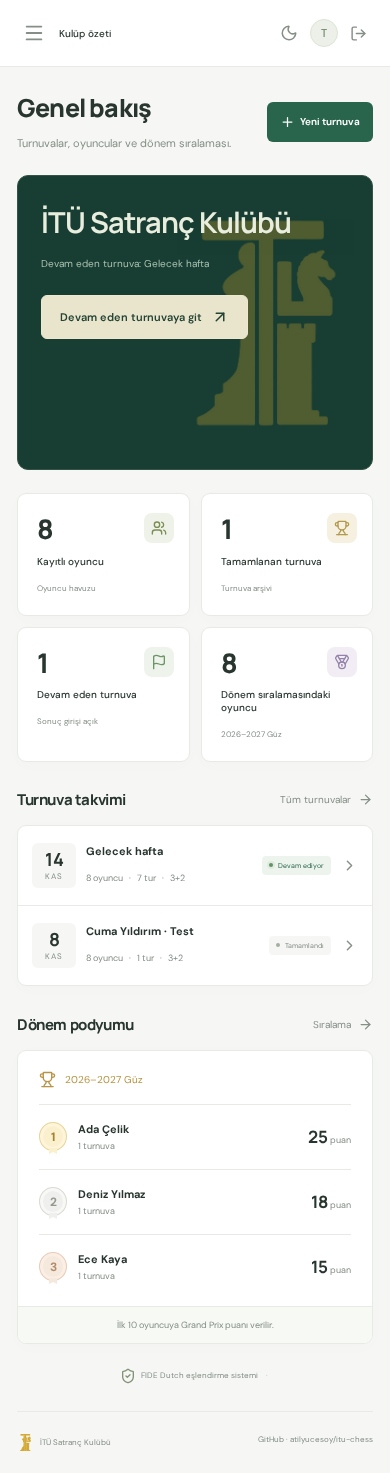
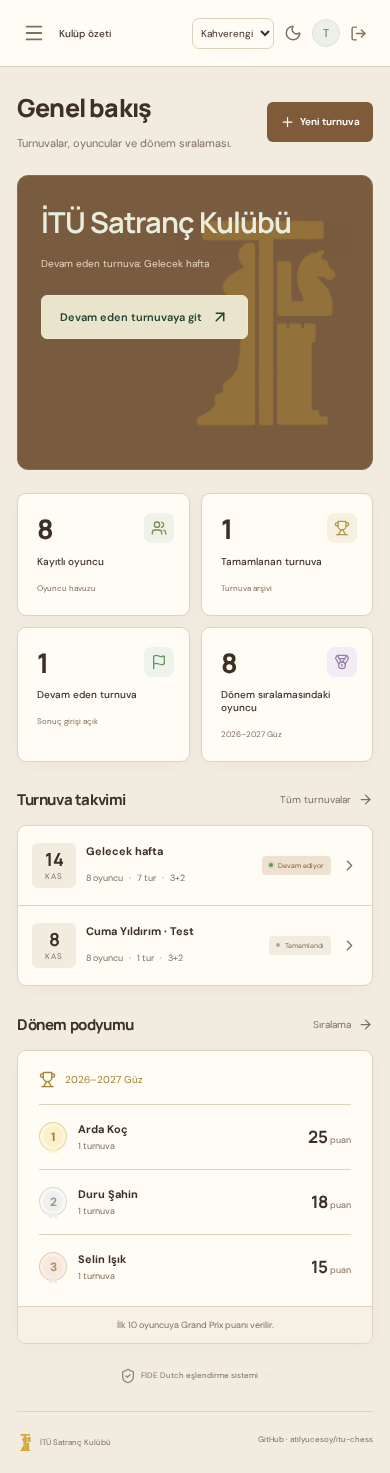
docs: explain semester rollover, themes and projection display

diff --git a/README.md b/README.md
@@ -8,7 +8,7 @@ A tournament-management web application built for Istanbul Technical University'
 
 ![Club overview](docs/screenshots/overview.png)
 
-Screenshots use fictional automated-test data, not real club records. [Standings](docs/screenshots/standings.png) · [Mobile layout](docs/screenshots/mobile-overview.png) · [Architecture and trade-offs](docs/architecture.md)
+Screenshots use fictional automated-test data, not real club records. [1080p projection / 40 players](docs/screenshots/projection.png) · [Standings](docs/screenshots/standings.png) · [Mobile layout](docs/screenshots/mobile-overview.png) · [Architecture and trade-offs](docs/architecture.md)
 
 ## Run locally
 
@@ -31,7 +31,7 @@ Local database: `data/club.sqlite`. Do not delete it or store it on an ephemeral
 
 `npm run dev` enables developer mode on the local server. Sign in as the owner, open **Kulüp ayarları → Developer mode → Deneme ortamını aç**. A persistent yellow banner identifies the test workspace. Add names such as `abc`, create a tournament, enter results and finalize normally.
 
-- The test workspace starts empty and copies **only the rating policy**, never actual players, tournaments or accounts.
+- The test workspace starts empty and copies **only rating policy and semester configuration**, never actual players, tournaments or accounts.
 - All test state lives in an isolated **in-memory store**, not the club's SQLite/Supabase database. It does not enter real rating history, points, audit records or backups.
 - **Denemeyi sıfırla** clears all test players, events, rating changes, corrections and audit entries. **Kulüp kayıtlarına dön** clears and discards the test workspace before returning to actual club data.
 - Test state is also discarded on logout, server restart or after four hours. An expired workspace never silently accepts mutations against actual club records. Explicit workspace checks and monotonic revisions reject stale requests.
@@ -44,13 +44,27 @@ Tabs in the same browser share the workspace cookie. Use a separate browser prof
 ## Weekly workflow
 
 1. Sign in, add people in **Oyuncular**, with optional FIDE standard Elo or UKD.
-2. Create an event. Defaults: **7 rounds**, **3+2**. Choose its semester and whether it contributes championship points and/or İTÜ Elo. Chess960 defaults both switches off, independently adjustable.
+2. Create a standard chess event. Defaults: **7 rounds**, **3+2**, and the club's active semester. Choose a registered semester and whether the event contributes championship points and/or İTÜ Elo. There is no variant/mode selection.
 3. Select existing players, or copy the most recent tournament's participant list. **Save the list** before generating the first round.
 4. Generate a round; enter wins, draws or forfeits. All results must be complete before pairing the next round.
 5. Between rounds, mark withdrawals/returns from **Oyuncular**. Withdrawn players receive explicit zero-point absences, not rating losses. Late registration after the first round is intentionally not supported in v0.1.
 6. After the planned final round, resolve any complete tie with a **recorded random lot**, then finalize. Finalization awards points and updates ratings once. It cannot be run twice.
 
 The total rounds can be changed **before starting**, not silently changed mid-event. First-round initial colour is randomly drawn once and stored. If the engine cannot create valid pairings, it reports failure; it never falls back to an improvised pairing algorithm. For very small fields, choose a feasible number of Swiss rounds before starting.
+
+### Projecting pairings
+
+From the event page choose **Tam ekran eşlendirmeler**, then **Tam ekran** to use the browser's native full-screen mode (or F11 if the browser refuses it). The projection route `#projection/<event-id>` is read-only and accessible without organizer login for actual club events. Navigation and result-entry controls are hidden.
+
+Names, both ratings, table numbers and piece colours are enlarged. A normal 40-player field fits as 20 boards in two columns on a 1920×1080 screen. Smaller screens and unusually long names use pagination instead of silently clipping players. Use the next/previous board controls to see every table. The default **Son tur (otomatik)** follows new pairings through the existing 20-second refresh; selecting a specific older round keeps that round visible. A manual refresh control is also available. Sandbox projections are clearly labeled and remain confined to the same browser session.
+
+### Appearance and semesters
+
+- Choose **Kahverengi / Yeşil** in the header or **Kulüp ayarları → Görünüm**. The light cream/brown palette is the default; the original green palette remains available. The light/dark toggle is independent. Both preferences are stored only in the current browser.
+- The owner manages **Kulüp ayarları → Dönemler**. Create a period, optionally activate it immediately, or select an existing period and use **Aktif dönemi kaydet**.
+- The header badge always shows the **active semester**. New events default to it. The semester standings page can independently display an older semester without changing the club's active one.
+- Semester rollover is deliberate, not a calendar-triggered reset. Old events and semester points are preserved, and İTÜ Elo carries forward. Existing event labels are imported unchanged into the registry when upgrading; the latest legacy event's period is the initial active choice. A new empty installation receives a one-time date-based suggestion, which the owner can change.
+- Existing backups remain restorable. Migration adds semester metadata only; it does not rewrite games, ratings, account data or historical event labels. New events only use registered semester names, avoiding spelling-based duplicate leaderboards.
 
 ### Ratings and seeding
 
@@ -77,7 +91,7 @@ Policy changes affect newly started events. **Geçmişi yeniden hesapla** explic
 - Win 1, draw ½, loss 0. Pairing-allocated bye 1, absent 0.
 - Tie-break order: **score → Buchholz Cut-1 → Buchholz → Sonneborn-Berger → recorded lot**. Implements the March 2026 FIDE C.07 unplayed-round adjustments for the supported result types. Live tie-breaks are provisional.
 - F1 schedule: **25–18–15–12–10–8–6–4–2–1**. Only completed events with `Dönem puanlarına dahil` count.
-- Semester standings are separate; İTÜ Elo continues across semesters. Semester labels are manually entered (reuse the same spelling).
+- Semester standings are separate; İTÜ Elo continues across semesters. Events select a period from the central registry.
 - Season ties use countback: number of firsts, then seconds, etc. If still equal, the season table shares the rank (`=`); alphabetical ordering is display-only.
 - Medal podiums, profiles, rating graphs, CSV exports, organizer TRF export and public shareable event links.
 
@@ -123,7 +137,7 @@ npx playwright install chromium
 npm run test:e2e        # isolated temporary database, never real club data
 ```
 
-Tests include full seven-round even/odd tournaments, no repeated played opponents, colours, byes, forfeits, withdrawal/return, seeding priority, first-rated and unrated initialization, policy replay, finalization/reopening, tie resolution, semester exclusions, private data, permissions and edit conflicts. Developer-mode tests cover owner-only access, production gating, memory disposal, reset races, expired-session handling and unchanged real club data. GitHub Actions runs the unit/integration tests and browser tests on pushes to `main` and pull requests.
+Tests include full seven-round even/odd tournaments, no repeated played opponents, colours, byes, forfeits, withdrawal/return, seeding priority, first-rated and unrated initialization, policy replay, finalization/reopening, tie resolution, semester exclusions, private data, permissions and edit conflicts. Developer-mode tests cover owner-only access, production gating, memory disposal, reset races, expired-session handling and unchanged real club data. Further tests cover safe semester migration/rollover, old backup compatibility, independent palette/dark-mode persistence and a 40-player projection at 1080p with live round updates, native fullscreen and smaller-screen pagination. GitHub Actions runs the unit/integration tests and browser tests on pushes to `main` and pull requests.
 
 ## Pairing rules and licensing
 
@@ -133,4 +147,4 @@ bbpPairings is downloaded from the pinned v6.0.0 release with SHA-256 verificati
 - [FIDE tie-breaks, March 2026](https://handbook.fide.com/chapter/TieBreakRegulations032026)
 - [bbpPairings v6.0.0](https://github.com/BieremaBoyzProgramming/bbpPairings/releases/tag/v6.0.0)
 
-Interface inspiration: restrained Lichess-style usability, with original club styling. No Lichess branding or assets. Google Fonts are optional; local system fonts remain usable when unavailable. `src/style.css` contains the theme and responsive layouts.
+Interface inspiration: restrained Lichess-style usability, with original club styling. No Lichess branding or assets. Google Fonts are optional; local system fonts remain usable when unavailable. `src/style.css` contains the original green layout; `src/enhancements.css` adds reversible palettes, larger pairings and the projection layout.

diff --git a/docs/architecture.md b/docs/architecture.md
@@ -47,7 +47,15 @@ Tournament ranking and season points are different computations:
 1. A tournament ranks participants by score, Buchholz Cut-1, Buchholz, Sonneborn-Berger and a recorded random lot for any remaining complete ties.
 2. Semester standings sum the F1-style points from completed, included events. Ties use finishing-position countback; completely identical records share a season rank.
 
-The supported bye, forfeit and withdrawal cases have explicit tie-break adjustments rather than treating every unplayed round as an ordinary game. Live tie-break values are provisional. Tournaments independently opt into club rating calculations and semester points, which also supports unrated Chess960 club nights.
+The supported bye, forfeit and withdrawal cases have explicit tie-break adjustments rather than treating every unplayed round as an ordinary game. Live tie-break values are provisional. Standard tournaments independently opt into club rating calculations and semester points, so casual events can be excluded without introducing a variant selector.
+
+Semester labels are centrally registered, with an explicit owner-controlled active period. The header and new-event defaults use that active period; historical standings use an independent viewing selection. Rollover does not reassign old events, reset club ratings or alter past points. A one-time, idempotent migration preserves all legacy labels and records and adds only the missing registry metadata. Backup restoration uses the same normalization.
+
+## Presentation and projection
+
+The browser stores palette (brown/green) separately from light/dark mode. These preferences are local presentation state, not club-wide settings.
+
+A separate read-only hash route renders projected pairings without navigation or editing controls. It displays the same frozen entry ratings and the same round data as the tournament desk. Responsive capacity and pagination avoid hiding later boards when screen height or long names reduce available room. A standard 40-player field is browser-tested at 1920×1080 with all 20 boards visible. Native fullscreen is optional; the layout also fills the page without it. The default round selector follows the latest round as the shared 20-second polling refreshes data, while explicitly selected historical rounds remain fixed.
 
 ## Persistence and concurrent edits
 
@@ -59,7 +67,7 @@ Finalization cannot be repeated. Corrections to earlier rounds require explicitl
 
 ## Disposable developer workspaces
 
-Developer mode is opt-in and hard-disabled in production. An owner can open an empty in-memory workspace using the current rating policy. It copies no actual players or accounts.
+Developer mode is opt-in and hard-disabled in production. An owner can open an empty in-memory workspace using the current rating policy and semester configuration. It copies no actual players or accounts.
 
 The server validates both the workspace cookie and the workspace identifier on every mutation. A missing/expired sandbox must not redirect a stale test write to the actual club. Reset increments the sandbox revision; disposal invalidates its store so in-flight saves cannot resurrect deleted test state.
 
